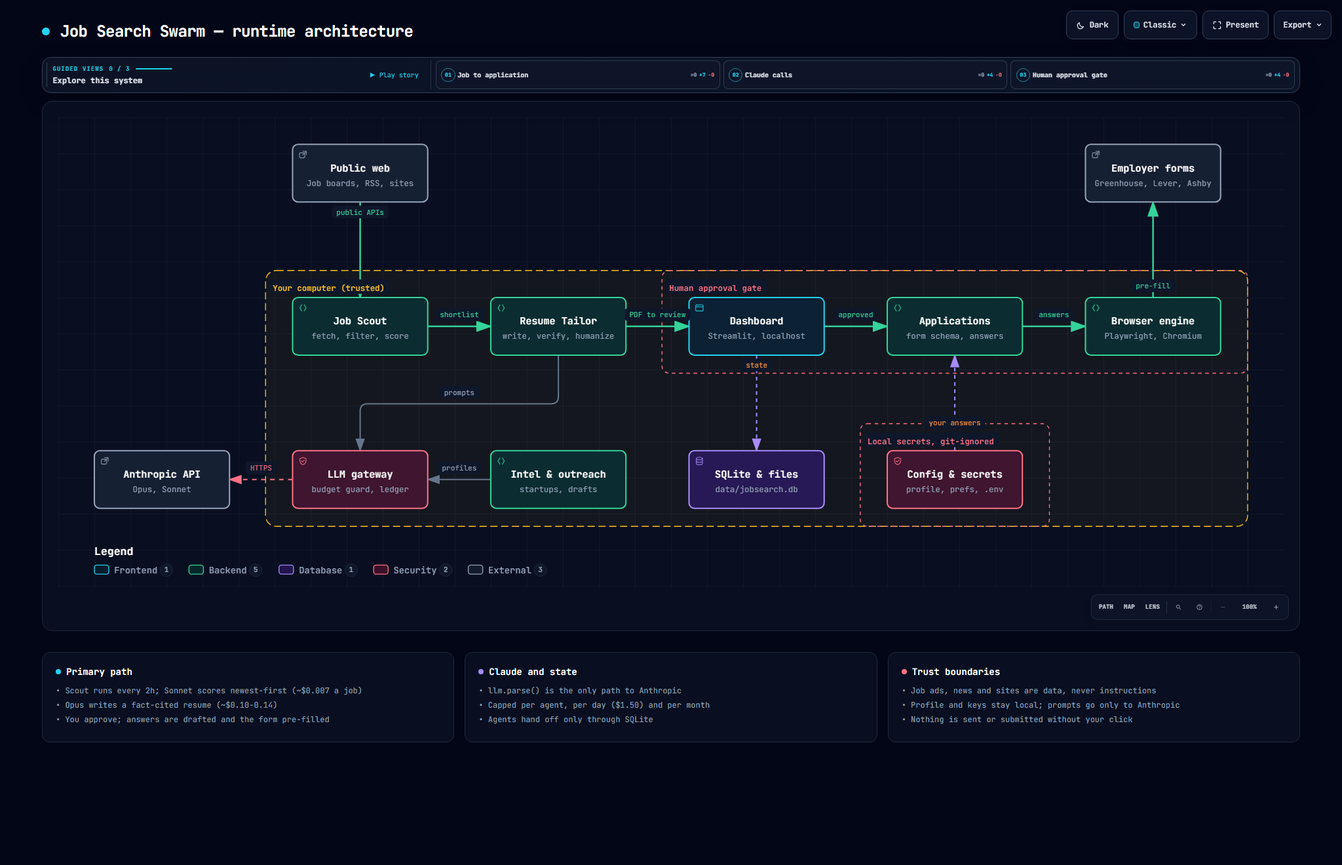
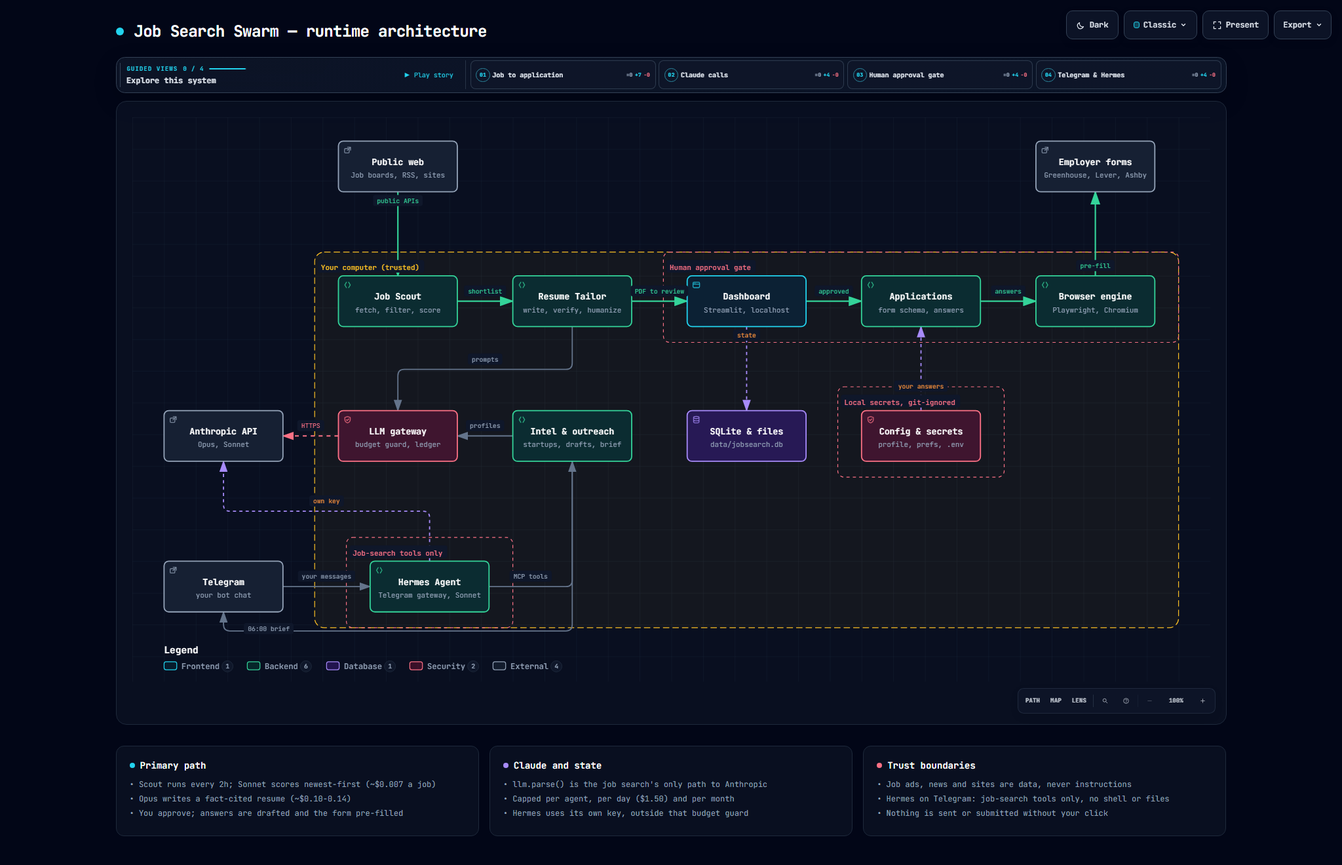
Add Telegram and Hermes Agent to the architecture diagram
Telegram (outside your computer) receives the 06:00 brief; your messages go
to Hermes Agent, which sits in a "Job-search tools only" boundary and reaches
the job search through MCP tools. Hermes's own Claude calls are shown going
straight to Anthropic, outside the budget guard. Adds a "Telegram & Hermes"
guided view. Showcase validation 9/9, 0 crossings; browser check passes at
1440x900 through 2048x1320.

diff --git a/docs/architecture/job-search-swarm.architecture.html b/docs/architecture/job-search-swarm.architecture.html
@@ -5085,7 +5085,7 @@ OTHER DEALINGS IN THE FONT SOFTWARE.
       </div>
     </div>
 
-    <script id="archify-guided-views-data" type="application/json">[{"id":"primary-path","label":"Job to application","focus":["web","scout","tailor","dashboard","applications","browser","employer"],"note":"A posting found on the public web becomes a reviewed resume and a pre-filled form you submit."},{"id":"claude-calls","label":"Claude calls","focus":["tailor","intel","gateway","anthropic"],"note":"Every model call goes through one budget-guarded gateway to the Anthropic API."},{"id":"trust","label":"Human approval gate","focus":["dashboard","applications","browser","employer"],"note":"Nothing leaves the machine until you approve it and click Submit yourself."}]</script>
+    <script id="archify-guided-views-data" type="application/json">[{"id":"primary-path","label":"Job to application","focus":["web","scout","tailor","dashboard","applications","browser","employer"],"note":"A posting found on the public web becomes a reviewed resume and a pre-filled form you submit."},{"id":"claude-calls","label":"Claude calls","focus":["tailor","intel","gateway","anthropic"],"note":"Every model call goes through one budget-guarded gateway to the Anthropic API."},{"id":"trust","label":"Human approval gate","focus":["dashboard","applications","browser","employer"],"note":"Nothing leaves the machine until you approve it and click Submit yourself."},{"id":"telegram-hermes","label":"Telegram \u0026 Hermes","focus":["intel","telegram","hermes","anthropic"],"note":"The brief is pushed to Telegram at 06:00; your replies go to Hermes, which acts only through the job-search MCP tools."}]</script>
 
     <script id="archify-i18n-data" type="application/json">{"locale":"en","messages":{"viewer.kind.frontend":"Frontend","viewer.kind.backend":"Backend","viewer.kind.database":"Database","viewer.kind.cloud":"Cloud","viewer.kind.security":"Security","viewer.kind.messagebus":"Message bus","viewer.kind.external":"External","viewer.kind.neutral":"Neutral","viewer.kind.node":"Node","viewer.kind.start":"Start","viewer.kind.active":"Active","viewer.kind.waiting":"Waiting","viewer.kind.decision":"Decision","viewer.kind.success":"Success","viewer.kind.failure":"Failure","viewer.toolbar.actions":"Diagram actions","viewer.theme.toggle.title":"Toggle theme (T)","viewer.theme.toggle":"Toggle color theme","viewer.theme.dark":"Dark","viewer.theme.light":"Light","viewer.preset.choose.title":"Choose visual style (S cycles)","viewer.preset.choose":"Choose visual style","viewer.preset.style":"Style","viewer.preset.menu":"Visual style","viewer.preset.identity":"Visual identity","viewer.preset.cycles":"S cycles","viewer.preset.classic":"Classic","viewer.preset.classic.short":"Classic","viewer.preset.classic.hint":"Stable technical default","viewer.preset.flow":"Signal Flow","viewer.preset.flow.short":"Flow","viewer.preset.flow.hint":"Motion-forward presentation","viewer.preset.blueprint":"Blueprint","viewer.preset.blueprint.hint":"Engineering review","viewer.preset.editorial":"Editorial","viewer.preset.editorial.hint":"Publication and launch notes","viewer.preset.badge.signalFlow":"SIGNAL FLOW","viewer.preset.badge.blueprint":"BLUEPRINT / REV 01","viewer.preset.badge.editorial":"EDITORIAL / FIELD NOTE","viewer.preset.badge.editorialPlate":"ARCHIFY / PLATE 04","viewer.preset.current":"Visual style: {style}. Choose visual style","viewer.motion.live":"Live","viewer.motion.still":"Still","viewer.motion.pause":"Pause motion","viewer.motion.resume":"Resume motion","viewer.motion.reduced":"Motion paused by reduced-motion preference","viewer.motion.hidden":"Motion paused while this page is hidden","viewer.motion.yielding":"Pause motion; currently yielding to {owner}","viewer.motion.yielding.title":"Live preview enabled · yielding to {owner}","viewer.owner.story":"the guided story","viewer.owner.chapter":"the active chapter","viewer.owner.chapterPreview":"the chapter delta preview","viewer.owner.handoff":"the chapter handoff","viewer.owner.route":"Route Probe","viewer.owner.lens":"Semantic Lens","viewer.owner.relationship":"Relationship Preview","viewer.owner.intent":"Intent Trace","viewer.owner.focus":"semantic focus","viewer.owner.legend":"legend preview","viewer.owner.reader":"reader interaction","viewer.present.enter":"Enter presentation stage","viewer.present.enter.title":"Presentation stage (F)","viewer.present.exit":"Exit presentation stage","viewer.present.exit.title":"Exit presentation stage (F or Escape)","viewer.present.present":"Present","viewer.present.exit.label":"Exit","viewer.export.button":"Export","viewer.export.button.title":"Export diagram (E)","viewer.export.diagram":"Export diagram","viewer.export.menu":"Export","viewer.export.subtitle":"Portable, clean outputs","viewer.export.share":"Share","viewer.export.shareCard":"Share Card","viewer.export.routeShareCard":"Route Share Card","viewer.export.reachShareCard":"Reach Share Card","viewer.export.copyShareCard":"Copy Share Card","viewer.export.copyDiagram":"Copy diagram","viewer.export.clipboardPng":"PNG to clipboard","viewer.export.raster":"Raster images","viewer.export.image":"Image","viewer.export.lossless":"Lossless image","viewer.export.compact":"Compact image","viewer.export.modern":"Modern image","viewer.export.vectorMotion":"Vector and motion","viewer.export.vectorMotion.heading":"Vector \u0026 motion","viewer.export.editable":"Editable vector","viewer.export.motion6s":"6s motion","viewer.export.unsupported":"Not supported by this browser","viewer.export.clipboardUnsupported":"Clipboard image write not supported by this browser","viewer.export.clipboardUnsupported.period":"Clipboard image write not supported by this browser.","viewer.export.clipboardUnsupported.short":"Clipboard image write not supported in this browser.","viewer.export.motionUnavailable":"Motion capture unavailable in this browser","viewer.export.webmUnavailable":"WebM unavailable in this browser","viewer.export.failed":"Export failed: {message}","viewer.export.unknownVariant":"Unknown Share Card variant: {variant}","viewer.export.routeRequired":"Trace a route before exporting a Route Share Card","viewer.export.reachRequired":"Trace authored reach before exporting a Reach Share Card","viewer.export.unknown":"unknown","viewer.export.routeFailed":"Route Share Card export failed: {message}","viewer.export.reachFailed":"Reach Share Card export failed: {message}","viewer.export.copyFailed":"Copy failed: {message}","viewer.export.copiedPng":"Copied PNG to clipboard","viewer.export.copiedShare":"Copied Share Card","viewer.export.downloadedShare":"Downloaded Share Card","viewer.export.downloadedRoute":"Downloaded Route Share Card","viewer.export.downloadedReach":"Downloaded Reach Share Card","viewer.export.downloadedWebm":"Downloaded WebM","viewer.export.recording":"Recording 6 seconds of motion…","viewer.export.card.routeSummary.one":"Route: {source} → {target} · {count} directed hop","viewer.export.card.routeSummary.other":"Route: {source} → {target} · {count} directed hops","viewer.export.card.reachSummary":"Authored {direction} from {origin} · {nodes} · {links} · max {hops}","viewer.export.card.node.one":"{count} node","viewer.export.card.node.other":"{count} nodes","viewer.export.card.link.one":"{count} link","viewer.export.card.link.other":"{count} links","viewer.export.card.hop.one":"{count} hop","viewer.export.card.hop.other":"{count} hops","viewer.export.card.routeBadge":"ARCHIFY · ROUTE · {hops}","viewer.export.card.reachBadge":"ARCHIFY · {direction} REACH","viewer.export.card.defaultBadge":"ARCHIFY · {preset} · {theme}","viewer.export.direction.upstream":"Upstream","viewer.export.direction.downstream":"Downstream","viewer.export.error.canvasUnavailable":"Canvas unavailable for {label}","viewer.export.error.contextUnavailable":"2D canvas context unavailable for {label}","viewer.export.error.toBlobUnavailable":"canvas.toBlob unavailable for {label}","viewer.export.error.toBlobNull":"canvas.toBlob returned no data for {label}","viewer.export.error.variantsCombined":"Share Card variants cannot be combined","viewer.export.error.viewerState":"Share Card export could not remove temporary viewer state","viewer.export.error.routeState":"Route Card export could not preserve the resolved route safely","viewer.export.error.reachState":"Reach Card export could not preserve authored reach safely","viewer.export.error.webmRequirements":"WebM motion export requires a trace animation and browser MediaRecorder support","viewer.export.error.mediaRecorder":"MediaRecorder failed","viewer.export.error.emptyWebm":"MediaRecorder produced an empty WebM","viewer.export.error.webmBackground":"SVG background could not be loaded for WebM export","viewer.guided.region":"Guided diagram views","viewer.guided.previous":"Previous guided view","viewer.guided.previous.title":"Previous guided view ([)","viewer.guided.next":"Next guided view","viewer.guided.next.title":"Next guided view (])","viewer.guided.views":"Guided views","viewer.guided.explore":"Explore this system","viewer.guided.intro":"Step through curated paths without changing the source diagram.","viewer.guided.trail":"Story trail","viewer.guided.beat":"Beat","viewer.guided.nextBeat":"Next","viewer.guided.play":"Play guided story","viewer.guided.play.title":"Play guided story (P)","viewer.guided.pause":"Pause guided story","viewer.guided.pause.title":"Pause guided story (P)","viewer.guided.replay":"Replay guided story","viewer.guided.replay.title":"Replay guided story (P)","viewer.guided.playStory":"Play story","viewer.guided.pauseStory":"Pause","viewer.guided.replayStory":"Replay story","viewer.guided.motionUnavailable":"Story playback unavailable while motion is Still","viewer.guided.enableMotion":"Switch motion to Live to play the guided story","viewer.guided.selectBeatLink":"Select a Story Beat to copy its exact link","viewer.guided.copyMoment":"Copy moment","viewer.guided.momentCopied":"Moment link copied","viewer.guided.momentCopyFailed":"Could not copy story moment link","viewer.guided.copied":"Copied","viewer.guided.copyFailed":"Copy failed","viewer.guided.showAll":"Show all","viewer.guided.showAll.aria":"Show entire diagram","viewer.guided.chapters":"Story chapters","viewer.guided.storyTrail":"Story trail for {label}: {count} beats","viewer.guided.chapter.open":"Open chapter {index} of {total}: {label}, {count} stops","viewer.guided.chapter.current":"Current chapter {index} of {total}: {label}, {count} stops","viewer.guided.chapter.selectedNodes":"{count} selected nodes","viewer.guided.chapter.stops":"{count} stops","viewer.guided.chapter.stop.one":"{count} stop","viewer.guided.chapter.stop.other":"{count} stops","viewer.guided.chapter.current.title":"{label} — current chapter, {count} stops","viewer.guided.chapter.delta.expanded":"{stay} stay, {enter} enter, {leave} leave","viewer.guided.chapter.delta.aria":"Open chapter {index} of {total}: {label}. Chapter focus delta: {delta}","viewer.guided.chapter.delta.title":"{label} — {delta} chapter focus","viewer.guided.handoff":"{from} → {to} · via {label}","viewer.guided.share.chapter":"Chapter {index} / {total}","viewer.guided.share.initial":"Chapter 01 / 01","viewer.guided.share.default":"Guided chapter","viewer.guided.state.ready":"Ready","viewer.guided.state.playing":"Playing","viewer.guided.state.settled":"Settled","viewer.guided.state.paused":"Paused","viewer.guided.state.pinned":"Pinned","viewer.guided.state.still":"Still","viewer.guided.share.step":"Step {index} / {total} · {label}","viewer.guided.share.staticMoment":"{step} · Static moment","viewer.guided.share.complete":"{count} steps complete · {note}","viewer.guided.share.settled":"Path settled for reading.","viewer.guided.share.staticPath":"{count} steps · Static path","viewer.guided.share.ready":"{count} steps · Ready","viewer.guided.share.aria":"{state} chapter {index} of {total}: {label}. {beat}. {route}","viewer.guided.beat.start":"Beat {index} / {total} · {label} · starting point","viewer.guided.beat.forward":"Beat {index} / {total} · {from} → {to}","viewer.guided.beat.reverse":"Beat {index} / {total} · {from} → {to} · reverse authored link","viewer.guided.beat.multiple":"Beat {index} / {total} · {from} ⇄ {to} · {count} authored links","viewer.guided.beat.group":"Beat {index} / {total} · {from} · {to} · grouped · no direct link","viewer.guided.beat.aria.prefix":"Story beat {index} of {total}: {label}. ","viewer.guided.beat.aria.start":"Starting point.","viewer.guided.beat.aria.forward":"From {from} through one authored forward relationship.","viewer.guided.beat.aria.reverse":"From {from}; the authored relationship points from {to} to {from}.","viewer.guided.beat.aria.multiple":"From {from} through {count} authored relationships; shown without arbitrary motion.","viewer.guided.beat.aria.group":"Grouped from {from} with no direct authored relationship.","viewer.guided.caption.start":"Starting point","viewer.guided.caption.grouped":"Grouped transition · no direct authored link","viewer.guided.caption.more":" +{count} more","viewer.guided.caption.reverse":"Reverse authored relationship","viewer.guided.caption.relationships":"{count} authored relationships","viewer.guided.caption.relationship":"Authored relationship","viewer.guided.caption.direction":"authored direction: {from} → {to}","viewer.guided.caption.starting":"Authored starting point","viewer.guided.beatLink":"Copy link to current story moment: Beat {index} of {total}: {label}","viewer.guided.noStory":"This diagram has no authored guided story.","viewer.guide.eyebrow":"Diagram guide","viewer.guide.close":"Close diagram guide","viewer.guide.inspecting":"Inspecting compiled semantics","viewer.guide.actions":"Diagram exploration actions","viewer.guide.find":"Find any node","viewer.guide.find.hint":"Search labels, responsibilities, kinds, and stable IDs.","viewer.guide.route":"Trace a route","viewer.guide.route.aria":"Trace a directed route","viewer.guide.route.hint":"Ask how two semantic nodes connect in authored direction.","viewer.guide.map":"See the whole system","viewer.guide.map.hint":"Open Semantic Radar with a live viewport and stable nodes.","viewer.guide.lens":"Compare semantic kinds","viewer.guide.lens.hint":"Count roles, reveal their traffic, and compare direct authored links.","viewer.guide.story":"Play the guided story","viewer.guide.story.hint":"Walk the authored chapters and real relationships.","viewer.guide.present":"Enter Presentation Stage","viewer.guide.present.hint":"Give the live diagram the viewport without changing export.","viewer.guide.shortcuts":"Additional keyboard shortcuts","viewer.guide.shortcut.export":"Export","viewer.guide.shortcut.theme":"Theme","viewer.guide.shortcut.style":"Style","viewer.guide.shortcut.reset":"Reset","viewer.guide.shortcut.zoomIn":"Zoom in","viewer.guide.shortcut.zoomOut":"Zoom out","viewer.guide.shortcut.close":"Close","viewer.guide.facts":"{nodes} · {relationships} · {views}","viewer.guide.fact.node.one":"{count} semantic node","viewer.guide.fact.node.other":"{count} semantic nodes","viewer.guide.fact.relationship.one":"{count} relationship","viewer.guide.fact.relationship.other":"{count} relationships","viewer.guide.fact.view.one":"{count} guided view","viewer.guide.fact.view.other":"{count} guided views","viewer.guide.story.available.one":"Walk {count} authored chapter and its real relationships.","viewer.guide.story.available.other":"Walk {count} authored chapters and their real relationships.","viewer.guide.story.unavailable":"No authored guided story in this diagram.","viewer.guide.open":"Open diagram guide","viewer.guide.noStory":"This diagram has no authored guided story.","viewer.finder.title":"Find a node","viewer.finder.close":"Close node finder","viewer.finder.placeholder":"Search labels or IDs","viewer.finder.search":"Search diagram nodes","viewer.finder.results":"Diagram nodes","viewer.finder.empty":"No matching nodes","viewer.finder.result.focus":"Focus {label}","viewer.finder.result.routeStart":"Choose {label} as route start","viewer.finder.result.routeTarget":"Choose {label} as route destination, {links}","viewer.finder.status.empty":"No matching nodes","viewer.finder.status.count.one":"{count} matching node","viewer.finder.status.count.other":"{count} matching nodes","viewer.finder.noun.nodes":"nodes","viewer.finder.link.one":"{count} link","viewer.finder.link.other":"{count} links","viewer.finder.result.focus.one":"Focus {label}, {count} related connection","viewer.finder.result.focus.other":"Focus {label}, {count} related connections","viewer.finder.status.filtered":"{visible} of {available} {noun}","viewer.finder.status.all":"{available} {noun}","viewer.passport.eyebrow":"Semantic passport","viewer.passport.metadata":"Node metadata","viewer.passport.evidence":"Verified source evidence","viewer.passport.verified":"Verified source","viewer.passport.verificationScope":"Verified against local Git at the pinned revision. Remote access has not been checked.","viewer.passport.reach":"Authored reach","viewer.passport.reach.trace":"Trace authored reachability","viewer.passport.upstream":"Upstream","viewer.passport.downstream":"Downstream","viewer.passport.upstream.trace":"Trace upstream authored reachability","viewer.passport.downstream.trace":"Trace downstream authored reachability","viewer.passport.close":"Close semantic passport","viewer.passport.copy":"Copy link","viewer.passport.copy.focus":"Copy link to focused node","viewer.passport.relations":"Relations","viewer.passport.relations.show":"Show connected relationships","viewer.passport.relations.hide":"Hide connected relationships","viewer.passport.relations.list":"Connected relationships","viewer.passport.copyRelation":"Copy relation","viewer.passport.copyNode":"Copy node","viewer.passport.copyPinned":"Copy link to pinned relationship","viewer.passport.copySource":"Copy link to source node","viewer.passport.copy.focused.success":"Focused node link copied","viewer.passport.copy.pinned.success":"Pinned relationship link copied","viewer.passport.copy.focused.failed":"Could not copy focused node link","viewer.passport.copy.pinned.failed":"Could not copy pinned relationship link","viewer.passport.relationship.none":"No connected relationships","viewer.passport.relationship.count.one":"{count} relation","viewer.passport.relationship.count.other":"{count} relations","viewer.passport.relationship.show.one":"Show {count} connected relationship","viewer.passport.relationship.show.other":"Show {count} connected relationships","viewer.passport.relationship.summary":"{out} outgoing · {in} incoming{loops}","viewer.passport.relationship.loops":" · {count} loop","viewer.passport.relationship.explorer":"Direct relationship explorer","viewer.passport.relationship.help":"Use arrow keys to explore relationships. Press Enter or Space to pin details; Escape clears.","viewer.passport.relationship.loopsBack":"loops back","viewer.passport.relationship.connectsTo":"connects to","viewer.passport.relationship.connectsFrom":"connects from","viewer.passport.relationship.pinned":"Pinned relationship · {from} → {to} · {label}","viewer.passport.relationship.inspect":"Inspect relationship {index} of {total}: {from} to {to}, {label}. Press Enter for details.","viewer.passport.relationship.group.out":"Outgoing","viewer.passport.relationship.group.in":"Incoming","viewer.passport.relationship.group.loop":"Self loops","viewer.passport.relationship.row":"{group}: {relationship}, {neighbor}","viewer.passport.relationship.direction.out":"OUT →","viewer.passport.relationship.direction.in":"← IN","viewer.passport.relationship.direction.loop":"LOOP","viewer.passport.sourceCount.one":"{count} verified source reference","viewer.passport.sourceCount.other":"{count} verified source references","viewer.passport.sourceMarker":"SRC","viewer.passport.beacon.one":"{count} verified source; focus this node to inspect","viewer.passport.beacon.other":"{count} verified sources; focus this node to inspect","viewer.passport.repository.open":"Open verified repository revision {revision}","viewer.passport.source.open":"Open verified source {path} at revision {revision}","viewer.passport.source.openLink":"Open ↗","viewer.passport.reach.upstream.one":"Trace {count} upstream authored node","viewer.passport.reach.upstream.other":"Trace {count} upstream authored nodes","viewer.passport.reach.downstream.one":"Trace {count} downstream authored node","viewer.passport.reach.downstream.other":"Trace {count} downstream authored nodes","viewer.passport.reach.noUpstream":"No upstream authored nodes","viewer.passport.reach.noDownstream":"No downstream authored nodes","viewer.passport.reach.status":"{direction} · {nodes} nodes · {links} links · max {hops} hops","viewer.route.eyebrow":"Route probe","viewer.route.start":"Choose a start node","viewer.route.start.find":"Find start","viewer.route.start.find.aria":"Find a route start","viewer.route.copy":"Copy link","viewer.route.copy.aria":"Copy link to traced route","viewer.route.clear":"Clear","viewer.route.clear.aria":"Clear route probe","viewer.route.traced":"Traced route","viewer.route.pickTwo":"Pick two semantic nodes on the diagram","viewer.route.pickOne":"Pick a semantic node on the diagram","viewer.route.controls":"Route journey controls","viewer.route.previous":"Previous route position","viewer.route.play":"Play route journey","viewer.route.pause":"Pause route journey","viewer.route.replay":"Replay route journey","viewer.route.next":"Next route position","viewer.route.journey":"Journey","viewer.route.pause.label":"Pause","viewer.route.replay.label":"Replay","viewer.route.overview":"Overview","viewer.route.overview.aria":"Show complete route overview","viewer.route.instructions":"Choose the source, then the destination. Direction matters.","viewer.route.destination":"Choose a destination from {label}","viewer.route.destination.find":"Find target","viewer.route.destination.find.aria":"Find a reachable route destination","viewer.route.differentDestination":"Choose a different destination","viewer.route.distinct":"A route needs two distinct semantic nodes.","viewer.route.unreachable":"No directed route to {label}","viewer.route.unreachable.detail":"{target} is not reachable from {source}. Pick a highlighted destination.","viewer.route.start.instructions":"Select the source. The next step will reveal only directed destinations.","viewer.route.copy.success":"Traced route link copied","viewer.route.copy.failed":"Could not copy traced route link","viewer.route.position":"Route position {index} of {total}: {label}","viewer.route.step":"Step {index} of {total} · {phase} · {label}","viewer.route.motionRequired":"Automatic journey requires Live motion","viewer.route.trigger.clear":"Clear traced route","viewer.route.overview.status":"{nodes} · {hops} · shortest authored route","viewer.route.overview.node.one":"{count} node","viewer.route.overview.node.other":"{count} nodes","viewer.route.overview.hop.one":"{count} directed hop","viewer.route.overview.hop.other":"{count} directed hops","viewer.route.phase.playing":"Playing","viewer.route.phase.complete":"Complete","viewer.route.phase.inspecting":"Inspecting","viewer.route.destination.count.one":"{count} directed destination available. Pick a highlighted node.","viewer.route.destination.count.other":"{count} directed destinations available. Pick a highlighted node.","viewer.route.noOutgoing":"No outgoing route starts here. Clear and choose another source.","viewer.route.result.title":"{source} to {target}","viewer.route.finder.source.title":"Choose route start","viewer.route.finder.source.placeholder":"Search route sources","viewer.route.finder.source.empty":"No matching route sources","viewer.route.finder.source.results":"Nodes that can start a route","viewer.route.finder.source.noun":"route sources","viewer.route.finder.source.badge":"start","viewer.route.finder.target.title":"Destination from {label}","viewer.route.finder.target.placeholder":"Search reachable destinations","viewer.route.finder.target.empty":"No matching reachable destinations","viewer.route.finder.target.results":"Reachable route destinations","viewer.route.finder.target.noun":"reachable destinations","viewer.route.hop.one":"{count} hop","viewer.route.hop.other":"{count} hops","viewer.lens.eyebrow":"Semantic lens","viewer.lens.title":"Compare system roles","viewer.lens.close":"Close semantic lens","viewer.lens.instruction":"Choose up to two semantic kinds. One reveals its real traffic; two compare only direct authored relationships.","viewer.lens.kinds":"Semantic kinds","viewer.lens.choose":"Choose a kind to inspect its nodes and touching relationships.","viewer.lens.copy":"Copy link to semantic lens","viewer.lens.clear":"Clear semantic lens","viewer.lens.open":"Open semantic lens","viewer.lens.openActive":"Open active semantic lens","viewer.lens.legend":"Semantic legend","viewer.lens.legend.inspect.one":"Inspect {label}, {count} node","viewer.lens.legend.inspect.other":"Inspect {label}, {count} nodes","viewer.lens.kind.count.one":"{label}, {count} node","viewer.lens.kind.count.other":"{label}, {count} nodes","viewer.lens.compare.one":"{first} → {second}: {forward} · {second} → {first}: {reverse} · {count} direct relationship","viewer.lens.compare.other":"{first} → {second}: {forward} · {second} → {first}: {reverse} · {count} direct relationships","viewer.lens.single":"{nodes} · {relationships} · connected peers remain visible","viewer.lens.node.one":"{count} {label} node","viewer.lens.node.other":"{count} {label} nodes","viewer.lens.relationship.one":"{count} touching relationship","viewer.lens.relationship.other":"{count} touching relationships","viewer.radar.title":"Semantic radar","viewer.radar.building":"Building overview","viewer.radar.openFull":"Open full semantic radar","viewer.radar.open":"Open radar","viewer.radar.close":"Close semantic radar","viewer.radar.surface":"Diagram overview. Click a node to focus it, or use arrow keys to pan.","viewer.radar.click":"Click node","viewer.radar.drag":"Drag to pan","viewer.radar.space":"Semantic radar needs more MAP space.","viewer.radar.nodes":"Semantic diagram radar nodes","viewer.radar.focus":"Focus {label} from Semantic Radar","viewer.radar.status":"{count} nodes · {viewport}","viewer.radar.fullMap":"{count} nodes · full map","viewer.radar.compacted":"Radar compacted to avoid covering the Semantic Passport or MAP controls.","viewer.radar.cancelWaiting":"Cancel semantic radar waiting for more MAP space","viewer.radar.needsSpace":"Semantic radar needs more visible MAP space","viewer.radar.viewport.full":"full map","viewer.radar.viewport.width":"{percent}% width","viewer.radar.viewport.scale":"{percent}% viewport","viewer.nav.controls":"Diagram view controls","viewer.nav.route":"Trace a directed route","viewer.nav.route.title":"Trace route (R)","viewer.nav.route.short":"PATH","viewer.nav.radar":"Open semantic radar","viewer.nav.radar.title":"Semantic radar (M)","viewer.nav.radar.short":"MAP","viewer.nav.lens":"Open semantic lens","viewer.nav.lens.title":"Semantic lens (L)","viewer.nav.lens.short":"LENS","viewer.nav.find":"Find a node","viewer.nav.find.title":"Find a node (/)","viewer.nav.guide":"Open diagram guide","viewer.nav.guide.title":"Diagram guide (?)","viewer.nav.zoomOut":"Zoom out","viewer.nav.zoomOut.title":"Zoom out (-)","viewer.nav.reset":"Reset diagram view","viewer.nav.reset.title":"Reset view (0)","viewer.nav.read":"READ","viewer.nav.zoomIn":"Zoom in","viewer.nav.zoomIn.title":"Zoom in (+)","viewer.nav.camera":"{hint}. Reset diagram view","viewer.nav.camera.title":"{semantic}{hint} · reset view (0)","viewer.nav.camera.semantic":"Semantic camera active · ","viewer.nav.level.map":"MAP","viewer.nav.level.read":"READ","viewer.nav.level.full":"FULL","viewer.nav.level.auto":"AUTO","viewer.nav.detail.map":"Zoom in to reveal relationship labels and node context","viewer.nav.detail.read":"Zoom in again to reveal tags and annotations","viewer.nav.detail.full":"Full diagram detail","viewer.intent.summary":"{label}. {out} outgoing, {in} incoming{loops}. {total} connections. Press Enter for details.","viewer.intent.loops":", {count} self loop","viewer.common.copied":"Copied","viewer.common.copyFailed":"Copy failed","viewer.common.copyLink":"Copy link","viewer.common.clear":"Clear","viewer.common.close":"Close"}}</script>
     <div class="guided-views no-print" id="guided-views" hidden aria-label="Guided diagram views">
@@ -5130,7 +5130,7 @@ OTHER DEALINGS IN THE FONT SOFTWARE.
     <!-- Main Diagram -->
     <div class="diagram-container" data-detail-level="read"
          data-preset-badge-editorial-plate="ARCHIFY / PLATE 04">
-      <svg viewBox="0 0 1360 522" role="img" lang="en" aria-labelledby="archify-diagram-title archify-diagram-description" data-preset="classic" data-quality-profile="showcase">
+      <svg viewBox="0 0 1360 712" role="img" lang="en" aria-labelledby="archify-diagram-title archify-diagram-description" data-preset="classic" data-quality-profile="showcase">
         <title id="archify-diagram-title">Job Search Swarm — runtime architecture</title>
         <desc id="archify-diagram-description">An architecture diagram generated by Archify.</desc>
         <!-- Definitions -->
@@ -5156,11 +5156,13 @@ OTHER DEALINGS IN THE FONT SOFTWARE.
         <rect width="100%" height="100%" fill="url(#grid)" />
 
         <!-- Boundaries (behind everything) -->
-        <rect data-graph-role="structural-frame" data-composition-frame-kind="region" data-composition-frame-id="0" data-composition-frame-label="Your computer (trusted)" x="230" y="170" width="1090" height="284" rx="12" class="c-region" stroke-width="1"/>
+        <rect data-graph-role="structural-frame" data-composition-frame-kind="region" data-composition-frame-id="0" data-composition-frame-label="Your computer (trusted)" x="230" y="170" width="1090" height="474" rx="12" class="c-region" stroke-width="1"/>
 
         <rect data-graph-role="structural-frame" data-composition-frame-kind="security-group" data-composition-frame-id="1" data-composition-frame-label="Human approval gate" x="670" y="170" width="650" height="114" rx="8" class="c-security-group" stroke-width="1"/>
 
         <rect data-graph-role="structural-frame" data-composition-frame-kind="security-group" data-composition-frame-id="2" data-composition-frame-label="Local secrets, git-ignored" x="890" y="340" width="210" height="114" rx="8" class="c-security-group" stroke-width="1"/>
+
+        <rect data-graph-role="structural-frame" data-composition-frame-kind="security-group" data-composition-frame-id="3" data-composition-frame-label="Job-search tools only" x="270" y="530" width="210" height="114" rx="8" class="c-security-group" stroke-width="1"/>
 
         <!-- Connection paths (before components for correct z-order) -->
         <path data-edge-from="web" data-edge-to="scout" data-edge-label="public APIs" data-edge-key="0" data-edge-id="fetch-postings" data-composition-points="335,94;335,200" d="M 335 94 L 335 200" class="a-emphasis" stroke-width="1.8" marker-end="url(#arrowhead-emphasis)"/>
@@ -5174,6 +5176,10 @@ OTHER DEALINGS IN THE FONT SOFTWARE.
         <path data-edge-from="gateway" data-edge-to="anthropic" data-edge-label="HTTPS" data-edge-key="8" data-edge-id="claude-api" data-composition-points="260,402;190,402" d="M 260 402 L 190 402" class="a-security" stroke-width="1.5" marker-end="url(#arrowhead-security)"/>
         <path data-edge-from="dashboard" data-edge-to="sqlite" data-edge-label="state" data-edge-key="9" data-edge-id="state" data-composition-points="775,264;775,370" d="M 775 264 L 775 370" class="a-dashed" stroke-width="1.5" marker-end="url(#arrowhead-dashed)"/>
         <path data-edge-from="config" data-edge-to="applications" data-edge-label="your answers" data-edge-key="10" data-edge-id="answer-defaults" data-composition-points="995,370;995,264" d="M 995 370 L 995 264" class="a-dashed" stroke-width="1.5" marker-end="url(#arrowhead-dashed)"/>
+        <path data-edge-from="intel" data-edge-to="telegram" data-edge-label="06:00 brief" data-edge-key="11" data-edge-id="morning-brief" data-composition-points="555,434;555,648;115,648;115,624" d="M 555 434 L 555 640 Q 555 648 547 648 L 123 648 Q 115 648 115 640 L 115 624" class="a-default" stroke-width="1.5" marker-end="url(#arrowhead)"/>
+        <path data-edge-from="telegram" data-edge-to="hermes" data-edge-label="your messages" data-edge-key="12" data-edge-id="chat" data-composition-points="190,592;300,592" d="M 190 592 L 300 592" class="a-default" stroke-width="1.5" marker-end="url(#arrowhead)"/>
+        <path data-edge-from="hermes" data-edge-to="intel" data-edge-label="MCP tools" data-edge-key="13" data-edge-id="mcp-tools" data-composition-points="450,592;555,592;555,434" d="M 450 592 L 547 592 Q 555 592 555 584 L 555 434" class="a-default" stroke-width="1.5" marker-end="url(#arrowhead)"/>
+        <path data-edge-from="hermes" data-edge-to="anthropic" data-edge-label="own key" data-edge-key="14" data-edge-id="hermes-claude" data-composition-points="375,560;375,497;115,497;115,434" d="M 375 560 L 375 505 Q 375 497 367 497 L 123 497 Q 115 497 115 489 L 115 434" class="a-dashed" stroke-width="1.5" marker-end="url(#arrowhead-dashed)"/>
 
         <!-- Components -->
         <g id="node-web" data-node-id="web" data-node-label="Public web" tabindex="0" role="button" aria-label="Focus Public web, Job boards, RSS, sites, Architecture component" aria-pressed="false" data-node-kind="external" data-node-sublabel="Job boards, RSS, sites" data-node-tag="untrusted data" data-node-context="Architecture component">
@@ -5274,15 +5280,15 @@ OTHER DEALINGS IN THE FONT SOFTWARE.
         <text data-detail="context" x="995" y="416" class="t-muted" font-size="9" text-anchor="middle">profile, prefs, .env</text>
         </g>
 
-        <g id="node-intel" data-node-id="intel" data-node-label="Intel &amp; outreach" tabindex="0" role="button" aria-label="Focus Intel &amp; outreach, startups, drafts, Your computer (trusted)" aria-pressed="false" data-node-kind="backend" data-node-sublabel="startups, drafts" data-node-tag="daily 06:00" data-node-context="Your computer (trusted)">
-          <title>Intel &amp; outreach · startups, drafts · Your computer (trusted) · daily 06:00</title>
+        <g id="node-intel" data-node-id="intel" data-node-label="Intel &amp; outreach" tabindex="0" role="button" aria-label="Focus Intel &amp; outreach, startups, drafts, brief, Your computer (trusted)" aria-pressed="false" data-node-kind="backend" data-node-sublabel="startups, drafts, brief" data-node-tag="daily 06:00" data-node-context="Your computer (trusted)">
+          <title>Intel &amp; outreach · startups, drafts, brief · Your computer (trusted) · daily 06:00</title>
           <rect x="480" y="370" width="150" height="64" rx="6" class="c-mask"/>
           <rect x="480" y="370" width="150" height="64" rx="6" class="c-backend" stroke-width="1.5"/>
           <g aria-hidden="true" data-semantic-sigil="backend" class="semantic-sigil s-backend" transform="translate(486 376) scale(0.6875)">
             <path d="M6 3 3 8l3 5M10 3l3 5-3 5"/>
           </g>
           <text data-node-label="" data-detail-anchor="" x="555" y="400" class="t-primary" font-size="11" font-weight="600" text-anchor="middle">Intel &amp; outreach</text>
-        <text data-detail="context" x="555" y="416" class="t-muted" font-size="9" text-anchor="middle">startups, drafts</text>
+        <text data-detail="context" x="555" y="416" class="t-muted" font-size="9" text-anchor="middle">startups, drafts, brief</text>
         <text data-detail="fine" x="555" y="426" class="t-backend" font-size="7" text-anchor="middle">daily 06:00</text>
         </g>
 
@@ -5320,6 +5326,31 @@ OTHER DEALINGS IN THE FONT SOFTWARE.
           </g>
           <text data-node-label="" data-detail-anchor="" x="115" y="400" class="t-primary" font-size="11" font-weight="600" text-anchor="middle">Anthropic API</text>
         <text data-detail="context" x="115" y="416" class="t-muted" font-size="9" text-anchor="middle">Opus, Sonnet</text>
+        </g>
+
+        <g id="node-hermes" data-node-id="hermes" data-node-label="Hermes Agent" tabindex="0" role="button" aria-label="Focus Hermes Agent, Telegram gateway, Sonnet, Your computer (trusted) › Job-search tools only" aria-pressed="false" data-node-kind="backend" data-node-sublabel="Telegram gateway, Sonnet" data-node-tag="chat" data-node-context="Your computer (trusted) › Job-search tools only">
+          <title>Hermes Agent · Telegram gateway, Sonnet · Your computer (trusted) › Job-search tools only · chat</title>
+          <rect x="300" y="560" width="150" height="64" rx="6" class="c-mask"/>
+          <rect x="300" y="560" width="150" height="64" rx="6" class="c-backend" stroke-width="1.5"/>
+          <g aria-hidden="true" data-semantic-sigil="backend" class="semantic-sigil s-backend" transform="translate(306 566) scale(0.6875)">
+            <path d="M6 3 3 8l3 5M10 3l3 5-3 5"/>
+          </g>
+          <text data-node-label="" data-detail-anchor="" x="375" y="590" class="t-primary" font-size="11" font-weight="600" text-anchor="middle">Hermes Agent</text>
+        <text data-detail="context" x="375" y="606" class="t-muted" font-size="9" text-anchor="middle">Telegram gateway, Sonnet</text>
+        <text data-detail="fine" x="375" y="616" class="t-backend" font-size="7" text-anchor="middle">chat</text>
+        </g>
+
+        <g id="node-telegram" data-node-id="telegram" data-node-label="Telegram" tabindex="0" role="button" aria-label="Focus Telegram, your bot chat, Architecture component" aria-pressed="false" data-node-kind="external" data-node-sublabel="your bot chat" data-node-tag="your phone" data-node-context="Architecture component">
+          <title>Telegram · your bot chat · Architecture component · your phone</title>
+          <rect x="40" y="560" width="150" height="64" rx="6" class="c-mask"/>
+          <rect x="40" y="560" width="150" height="64" rx="6" class="c-external" stroke-width="1.5"/>
+          <g aria-hidden="true" data-semantic-sigil="external" class="semantic-sigil s-external" transform="translate(46 566) scale(0.6875)">
+            <rect x="2.5" y="5" width="8.5" height="8" rx="1.5"/>
+            <path d="M8 2.5h5.5V8M13.5 2.5 7.5 8.5"/>
+          </g>
+          <text data-node-label="" data-detail-anchor="" x="115" y="590" class="t-primary" font-size="11" font-weight="600" text-anchor="middle">Telegram</text>
+        <text data-detail="context" x="115" y="606" class="t-muted" font-size="9" text-anchor="middle">your bot chat</text>
+        <text data-detail="fine" x="115" y="616" class="t-external" font-size="7" text-anchor="middle">your phone</text>
         </g>
 
         <!-- Connection labels -->
@@ -5367,6 +5398,22 @@ OTHER DEALINGS IN THE FONT SOFTWARE.
           <rect x="961.2" y="332" width="67.6" height="14" rx="3" class="c-mask"/>
           <text x="995" y="342" class="t-messagebus" font-size="8" text-anchor="middle">your answers</text>
         </g>
+        <g data-detail="context" data-edge-from="intel" data-edge-to="telegram" data-edge-label="06:00 brief" data-edge-key="11" data-edge-id="morning-brief">
+          <rect x="140.6" y="638" width="62.8" height="14" rx="3" class="c-mask"/>
+          <text x="172" y="648" class="t-muted" font-size="8" text-anchor="middle">06:00 brief</text>
+        </g>
+        <g data-detail="context" data-edge-from="telegram" data-edge-to="hermes" data-edge-label="your messages" data-edge-key="12" data-edge-id="chat">
+          <rect x="208.8" y="572" width="72.4" height="14" rx="3" class="c-mask"/>
+          <text x="245" y="582" class="t-muted" font-size="8" text-anchor="middle">your messages</text>
+        </g>
+        <g data-detail="context" data-edge-from="hermes" data-edge-to="intel" data-edge-label="MCP tools" data-edge-key="13" data-edge-id="mcp-tools">
+          <rect x="475.9" y="572" width="53.199999999999996" height="14" rx="3" class="c-mask"/>
+          <text x="502.5" y="582" class="t-muted" font-size="8" text-anchor="middle">MCP tools</text>
+        </g>
+        <g data-detail="context" data-edge-from="hermes" data-edge-to="anthropic" data-edge-label="own key" data-edge-key="14" data-edge-id="hermes-claude">
+          <rect x="223.2" y="477" width="43.6" height="14" rx="3" class="c-mask"/>
+          <text x="245" y="487" class="t-messagebus" font-size="8" text-anchor="middle">own key</text>
+        </g>
 
         <!-- Boundary labels (foreground masks keep routes out of titles) -->
         <g data-graph-role="structural-frame-label" data-composition-frame-id="0" data-composition-frame-kind="region" data-composition-frame-label="Your computer (trusted)">
@@ -5384,28 +5431,33 @@ OTHER DEALINGS IN THE FONT SOFTWARE.
           <text data-boundary-label="" x="898" y="363" class="t-security" font-size="9" font-weight="600">Local secrets, git-ignored</text>
         </g>
 
+        <g data-graph-role="structural-frame-label" data-composition-frame-id="3" data-composition-frame-kind="security-group" data-composition-frame-label="Job-search tools only">
+          <rect data-graph-role="structural-frame-label-mask" x="274" y="540" width="123.39999999999999" height="16" rx="3" class="c-mask"/>
+          <text data-boundary-label="" x="278" y="553" class="t-security" font-size="9" font-weight="600">Job-search tools only</text>
+        </g>
+
         <!-- Legend -->
         <g data-legend="" data-legend-bridge="">
-          <text x="40" y="486" class="t-primary" font-size="12" font-weight="650">Legend</text>
-          <g data-legend-semantic-kind="frontend" data-legend-kind="frontend" data-legend-label="Frontend" data-legend-x="40" data-legend-baseline="506" data-legend-width="83">
-            <rect x="40" y="497" width="16" height="10" rx="2.5" class="c-frontend" stroke-width="1"/>
-            <text x="62" y="506" class="t-muted" font-size="10" font-weight="500">Frontend</text>
+          <text x="40" y="676" class="t-primary" font-size="12" font-weight="650">Legend</text>
+          <g data-legend-semantic-kind="frontend" data-legend-kind="frontend" data-legend-label="Frontend" data-legend-x="40" data-legend-baseline="696" data-legend-width="83">
+            <rect x="40" y="687" width="16" height="10" rx="2.5" class="c-frontend" stroke-width="1"/>
+            <text x="62" y="696" class="t-muted" font-size="10" font-weight="500">Frontend</text>
           </g>
-          <g data-legend-semantic-kind="backend" data-legend-kind="backend" data-legend-label="Backend" data-legend-x="145" data-legend-baseline="506" data-legend-width="78">
-            <rect x="145" y="497" width="16" height="10" rx="2.5" class="c-backend" stroke-width="1"/>
-            <text x="167" y="506" class="t-muted" font-size="10" font-weight="500">Backend</text>
+          <g data-legend-semantic-kind="backend" data-legend-kind="backend" data-legend-label="Backend" data-legend-x="145" data-legend-baseline="696" data-legend-width="78">
+            <rect x="145" y="687" width="16" height="10" rx="2.5" class="c-backend" stroke-width="1"/>
+            <text x="167" y="696" class="t-muted" font-size="10" font-weight="500">Backend</text>
           </g>
-          <g data-legend-semantic-kind="database" data-legend-kind="database" data-legend-label="Database" data-legend-x="245" data-legend-baseline="506" data-legend-width="83">
-            <rect x="245" y="497" width="16" height="10" rx="2.5" class="c-database" stroke-width="1"/>
-            <text x="267" y="506" class="t-muted" font-size="10" font-weight="500">Database</text>
+          <g data-legend-semantic-kind="database" data-legend-kind="database" data-legend-label="Database" data-legend-x="245" data-legend-baseline="696" data-legend-width="83">
+            <rect x="245" y="687" width="16" height="10" rx="2.5" class="c-database" stroke-width="1"/>
+            <text x="267" y="696" class="t-muted" font-size="10" font-weight="500">Database</text>
           </g>
-          <g data-legend-semantic-kind="security" data-legend-kind="security" data-legend-label="Security" data-legend-x="350" data-legend-baseline="506" data-legend-width="83">
-            <rect x="350" y="497" width="16" height="10" rx="2.5" class="c-security" stroke-width="1"/>
-            <text x="372" y="506" class="t-muted" font-size="10" font-weight="500">Security</text>
+          <g data-legend-semantic-kind="security" data-legend-kind="security" data-legend-label="Security" data-legend-x="350" data-legend-baseline="696" data-legend-width="83">
+            <rect x="350" y="687" width="16" height="10" rx="2.5" class="c-security" stroke-width="1"/>
+            <text x="372" y="696" class="t-muted" font-size="10" font-weight="500">Security</text>
           </g>
-          <g data-legend-semantic-kind="external" data-legend-kind="external" data-legend-label="External" data-legend-x="455" data-legend-baseline="506" data-legend-width="83">
-            <rect x="455" y="497" width="16" height="10" rx="2.5" class="c-external" stroke-width="1"/>
-            <text x="477" y="506" class="t-muted" font-size="10" font-weight="500">External</text>
+          <g data-legend-semantic-kind="external" data-legend-kind="external" data-legend-label="External" data-legend-x="455" data-legend-baseline="696" data-legend-width="83">
+            <rect x="455" y="687" width="16" height="10" rx="2.5" class="c-external" stroke-width="1"/>
+            <text x="477" y="696" class="t-muted" font-size="10" font-weight="500">External</text>
           </g>
         </g>
       </svg>
@@ -5612,9 +5664,9 @@ OTHER DEALINGS IN THE FONT SOFTWARE.
           <h3>Claude and state</h3>
         </div>
         <ul>
-          <li>&bull; llm.parse() is the only path to Anthropic</li>
+          <li>&bull; llm.parse() is the job search&#39;s only path to Anthropic</li>
           <li>&bull; Capped per agent, per day ($1.50) and per month</li>
-          <li>&bull; Agents hand off only through SQLite</li>
+          <li>&bull; Hermes uses its own key, outside that budget guard</li>
         </ul>
       </div>
 
@@ -5625,7 +5677,7 @@ OTHER DEALINGS IN THE FONT SOFTWARE.
         </div>
         <ul>
           <li>&bull; Job ads, news and sites are data, never instructions</li>
-          <li>&bull; Profile and keys stay local; prompts go only to Anthropic</li>
+          <li>&bull; Hermes on Telegram: job-search tools only, no shell or files</li>
           <li>&bull; Nothing is sent or submitted without your click</li>
         </ul>
       </div>
